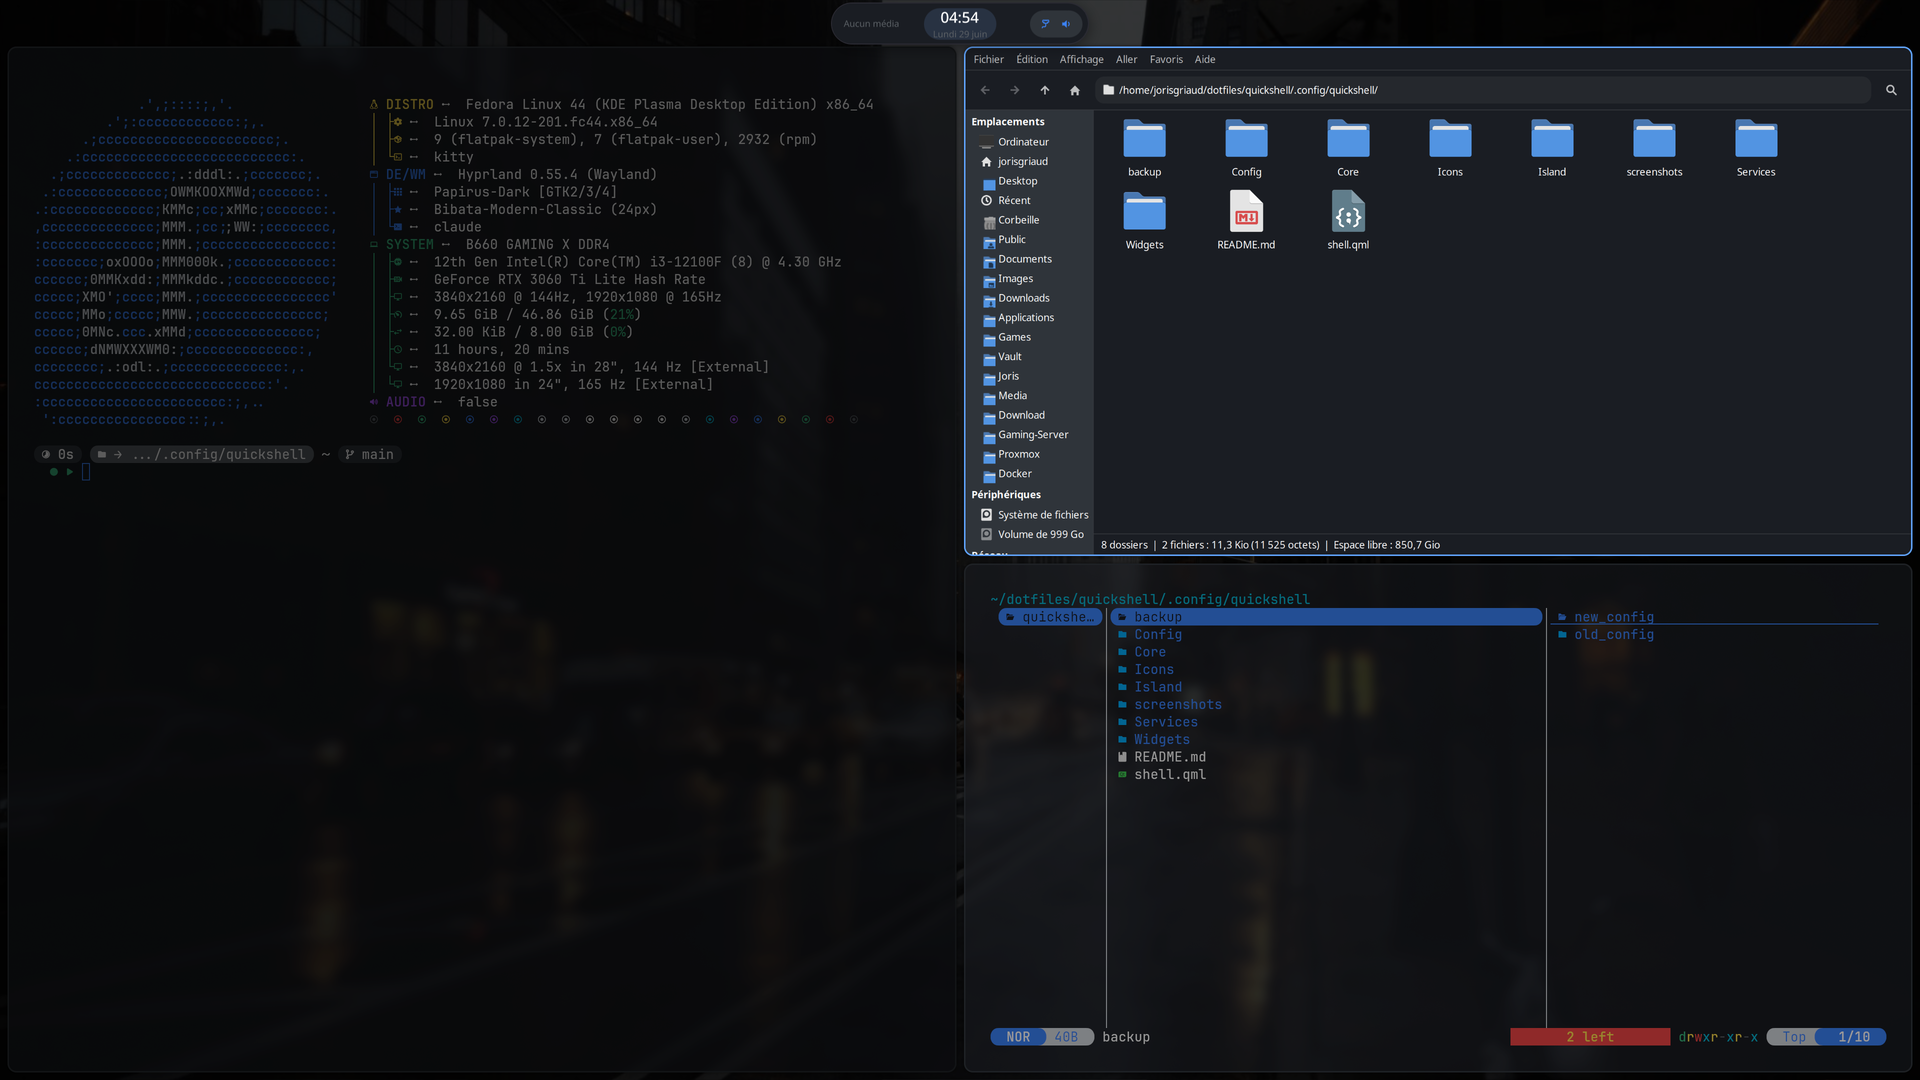
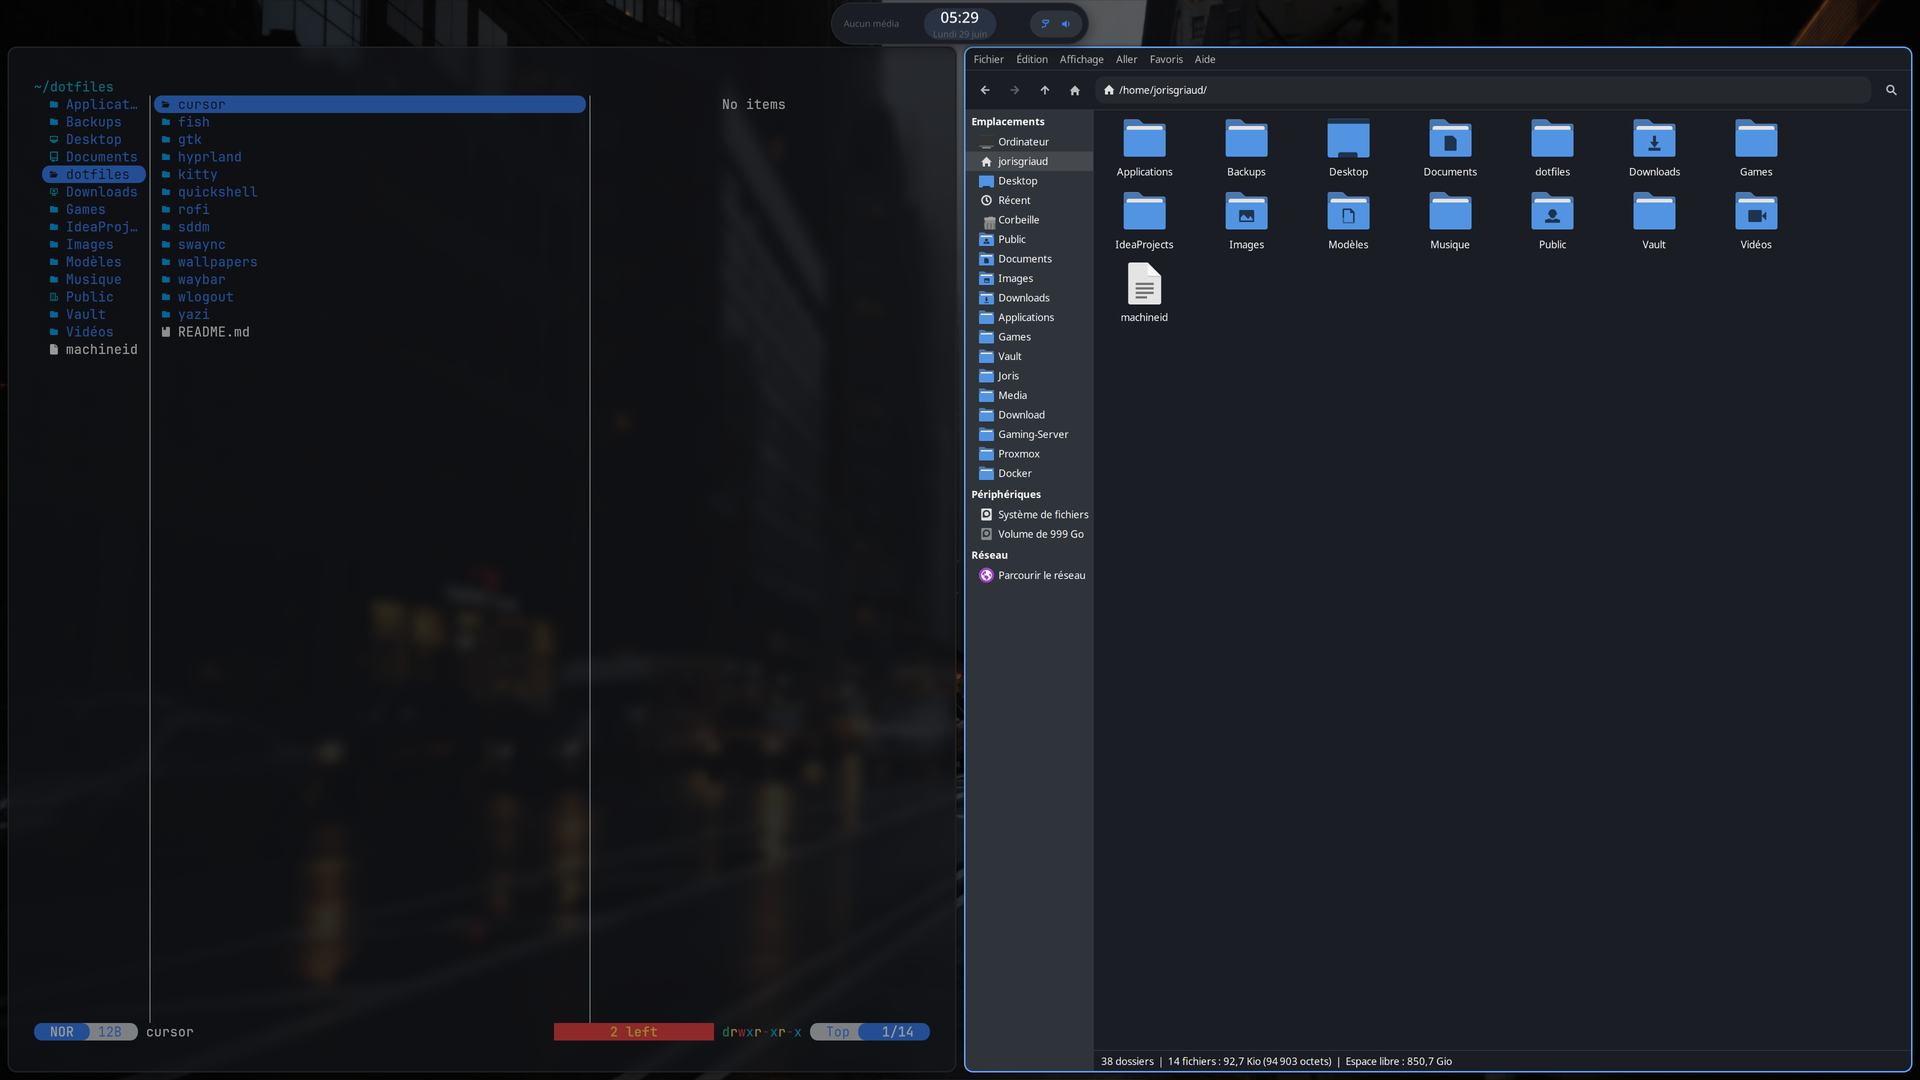
README: retrait rofi/waybar/swaync + captures sans fastfetch

diff --git a/README.md b/README.md
@@ -28,12 +28,11 @@ sont **vectorielles** (aucune police d'icônes).
 
 * **OS :** Fedora Linux
 * **Window Manager :** [Hyprland](https://hyprland.org/) *(compatible v0.55+, nouvelle syntaxe IPC Lua)*
-* **Barre d'état :** [Quickshell](https://quickshell.outfoxxed.me/) — la *Morphing Island* maison *(remplace progressivement waybar)*
+* **Barre d'état & notifications & lanceur :** [Quickshell](https://quickshell.outfoxxed.me/) — la *Morphing Island* maison (remplace barre, notifications et lanceur classiques)
 * **Terminal :** [Kitty](https://sw.kovidgoyal.net/kitty/)
 * **Shell :** [Fish](https://fishshell.com/)
 * **Gestionnaire de fichiers :** [Thunar](https://docs.xfce.org/xfce/thunar/start)
 * **Gestionnaire de fichiers (TUI) :** [Yazi](https://yazi-rs.github.io/)
-* **Lanceur (secours) :** [Rofi](https://github.com/davatorium/rofi)
 * **Menu de déconnexion :** [Wlogout](https://github.com/ArtsyMacaw/wlogout)
 * **Thème GTK :** Fork personnalisé de [Orchis-Theme](https://github.com/vinceliuice/Orchis-theme)
 * **Gestionnaire de connexion :** SDDM [pixie](https://github.com/xCaptaiN09/pixie-sddm)
@@ -62,14 +61,15 @@ La gestion des fichiers est assurée par **GNU Stow**, ce qui permet de conserve
 ├── hyprland/      # ~/.config/hypr/
 ├── kitty/         # ~/.config/kitty/
 ├── quickshell/    # ~/.config/quickshell/   ← la Morphing Island
-├── rofi/          # ~/.config/rofi/
 ├── sddm/          # /etc/sddm.conf.d/ & /usr/share/sddm/themes/
-├── swaync/        # ~/.config/swaync/
-├── waybar/        # ~/.config/waybar/
 ├── wallpapers/    # ~/Pictures/Wallpapers/
 ├── wlogout/       # ~/.config/wlogout/
 └── yazi/          # ~/.config/yazi/
 ```
+
+> Les dossiers `rofi/`, `waybar/` et `swaync/` subsistent dans le dépôt (anciennes
+> configs) mais **ne sont plus utilisés** : lanceur, barre et notifications sont
+> désormais assurés par la Morphing Island.
 
 ## 🛠️ Installation & Déploiement
 
@@ -77,7 +77,7 @@ Pour cloner et appliquer cette configuration sur une nouvelle installation Fedor
 
 **1. Installer les dépendances requises**
 ```bash
-sudo dnf install stow git hyprland sddm kitty fish thunar rofi yazi \
+sudo dnf install stow git hyprland sddm kitty fish thunar yazi \
                  brightnessctl fd-find wl-clipboard
 # Quickshell : installez-le selon la documentation officielle
 # (https://quickshell.outfoxxed.me/). hyprsunset est optionnel (mode nuit).
@@ -94,7 +94,7 @@ cd ~/dotfiles
 **3. Déployer les configurations utilisateur**
 Utilisez Stow pour créer les liens symboliques dans votre répertoire personnel :
 ```bash
-stow hyprland quickshell kitty fish rofi yazi wlogout gtk cursor wallpapers
+stow hyprland quickshell kitty fish yazi wlogout gtk cursor wallpapers
 ```
 
 **4. Déployer la configuration système (SDDM)**